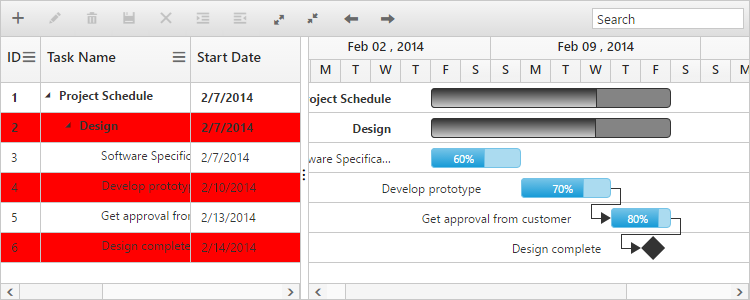
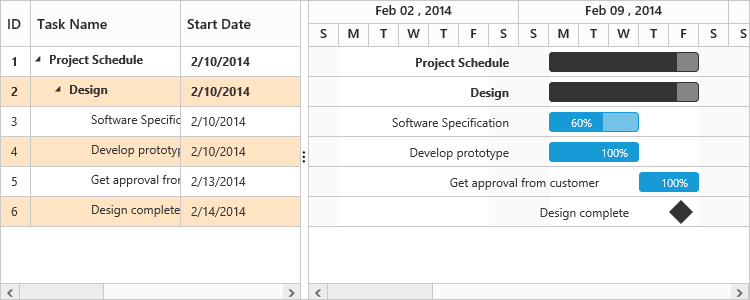
AltRow screen shot changed.

diff --git a/js/Gantt/Rows.md b/js/Gantt/Rows.md
@@ -246,7 +246,7 @@ The altRow background can be changed by setting the background color for the alt
 
     <style>
         .e-treegrid .e-alt-row {
-            background-color: red;
+            background-color: Bisque;
         }
     </style>
 
